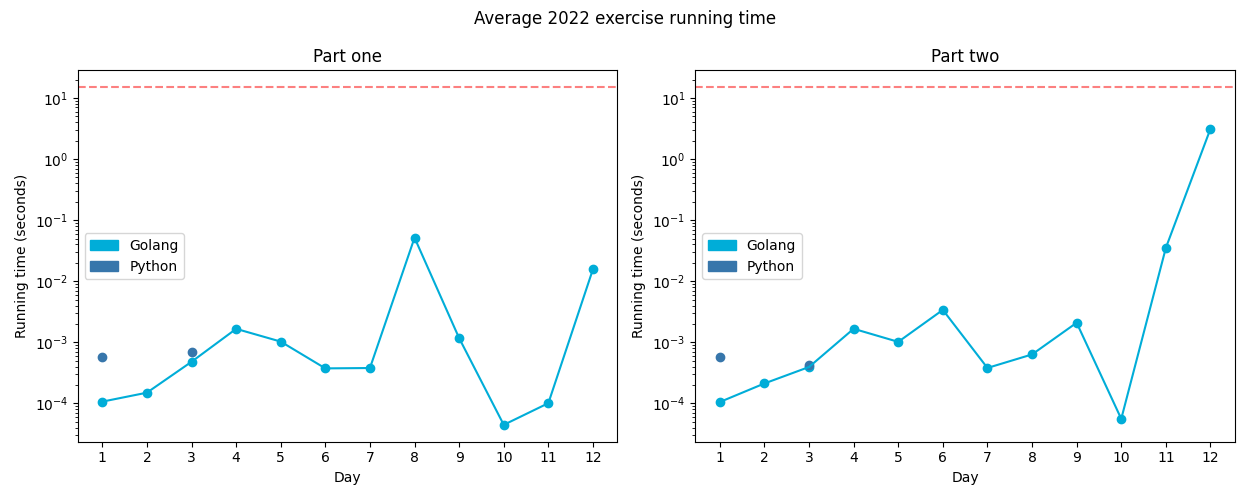
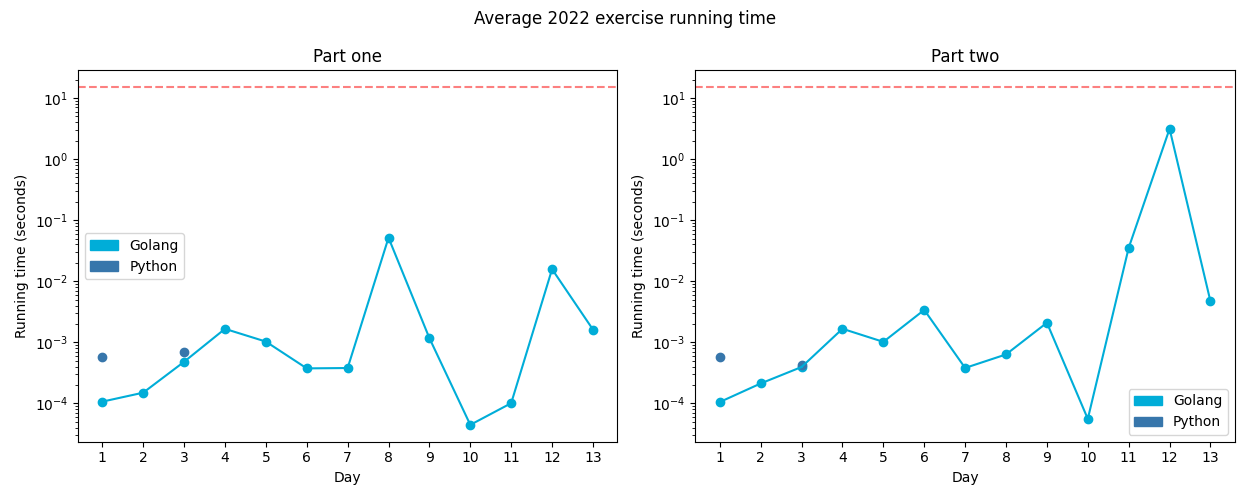
refactor go solution for aoc22-13

diff --git a/exercises/2022/13-distressSignal/go/day13.go b/exercises/2022/13-distressSignal/go/day13.go
@@ -1,28 +1,32 @@
-// Package aoc22_13 contains the solution for day 13 of Advent of Code 2022.
-package aoc22_13 //nolint:revive,stylecheck // I don't care about the package name
+package exercises
 
 import (
 	"fmt"
 	"sort"
-	"strconv"
+	"strings"
+
+	"github.com/asphaltbuffet/advent-of-code/internal/common"
 )
 
-// D13P1 returns the solution for 2022 day 13 part 1.
-// https://adventofcode.com/2022/day/13
-//
-// answer:
-func D13P1(data []string) string {
+// Exercise for Advent of Code 2022 day 13
+type Exercise struct {
+	common.BaseExercise
+}
+
+// One returns the answer to the first part of the exercise.
+func (c Exercise) One(instr string) (any, error) {
+	data := strings.Split(instr, "\n")
 	sum := 0
 
 	for i := 0; i < len(data); i += 3 {
 		first, err := ParsePacket(data[i])
 		if err != nil {
-			return fmt.Sprintf("error parsing first packet: %v", err)
+			return nil, fmt.Errorf("parsing first packet: %w", err)
 		}
 
 		second, err := ParsePacket(data[i+1])
 		if err != nil {
-			return fmt.Sprintf("error parsing second packet: %v", err)
+			return nil, fmt.Errorf("parsing second packet: %w", err)
 		}
 
 		if IsOrdered(first, second) {
@@ -32,24 +36,24 @@ func D13P1(data []string) string {
 
 	// fmt.Printf("valid pairs: %v\n", pairResult)
 
-	return strconv.Itoa(sum)
+	return sum, nil
 }
 
-// D13P2 returns the solution for 2022 day 13 part 2.
-// answer:
-func D13P2(data []string) string {
+// Two returns the answer to the second part of the exercise.
+func (c Exercise) Two(instr string) (any, error) {
+	data := strings.Split(instr, "\n")
 	var packets []any
 	packets = append(packets, []any{[]any{2.}}, []any{[]any{6.}})
 
 	for i := 0; i < len(data); i += 3 {
 		first, err := ParsePacket(data[i])
 		if err != nil {
-			return fmt.Sprintf("error parsing first packet: %v", err)
+			return nil, fmt.Errorf("error parsing first packet: %w", err)
 		}
 
 		second, err := ParsePacket(data[i+1])
 		if err != nil {
-			return fmt.Sprintf("error parsing second packet: %v", err)
+			return nil, fmt.Errorf("parsing second packet: %w", err)
 		}
 
 		packets = append(packets, first, second)
@@ -67,5 +71,5 @@ func D13P2(data []string) string {
 		}
 	}
 
-	return strconv.Itoa(idx)
+	return idx, nil
 }

diff --git a/exercises/2022/13-distressSignal/go/packet_test.go b/exercises/2022/13-distressSignal/go/packet_test.go
@@ -1,11 +1,9 @@
-package aoc22_13_test
+package exercises
 
 import (
 	"testing"
 
 	"github.com/stretchr/testify/assert"
-
-	"github.com/asphaltbuffet/advent-of-code/exercises/aoc22_13"
 )
 
 func TestIsOrdered_Slice(t *testing.T) {
@@ -25,7 +23,7 @@ func TestIsOrdered_Slice(t *testing.T) {
 
 		t.Run(tt.name, func(t *testing.T) {
 			// t.Parallel()
-			got := aoc22_13.IsOrdered(tt.left.([]interface{}), tt.right.([]interface{}))
+			got := IsOrdered(tt.left.([]interface{}), tt.right.([]interface{}))
 			assert.Equal(t, tt.want, got)
 		})
 	}
@@ -50,7 +48,7 @@ func TestParsePacket(t *testing.T) {
 		t.Run(tt.name, func(t *testing.T) {
 			// t.Parallel()
 
-			got, err := aoc22_13.ParsePacket(tt.input)
+			got, err := ParsePacket(tt.input)
 
 			tt.assertion(t, err)
 

diff --git a/exercises/2022/13-distressSignal/py/__init__.py b/exercises/2022/13-distressSignal/py/__init__.py
@@ -1,0 +1,12 @@
+from typing import *
+from aocpy import BaseExercise
+
+# Exercise for Advent of Code 2022 day 13
+class Exercise(BaseExercise):
+    @staticmethod
+    def one(instr: str) -> int:
+        raise NotImplementedError
+
+    @staticmethod
+    def two(instr: str) -> int:
+        raise NotImplementedError

diff --git a/exercises/2022/13-distressSignal/go/packet.go b/exercises/2022/13-distressSignal/go/packet.go
@@ -1,4 +1,4 @@
-package aoc22_13 //nolint:revive,stylecheck // I don't care about the package name
+package exercises
 
 import (
 	"encoding/json"

diff --git a/exercises/2022/13-distressSignal/README.md b/exercises/2022/13-distressSignal/README.md
@@ -1,0 +1,14 @@
+# [Day 13: Distress Signal](https://adventofcode.com/2022/day/13)
+
+## Go
+
+```console
+2022-13 Distress Signal (Golang)
+
+Running...
+
+Test 1.0: pass in 0.0000 seconds
+Test 2.0: pass in 0.0025 seconds
+Part 1: 5580 in 0.0016 seconds
+Part 2: 26200 in 0.0048 seconds
+```
